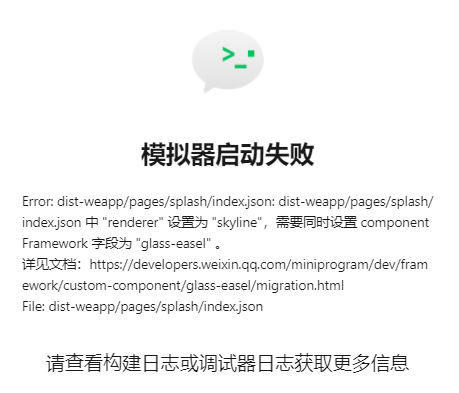
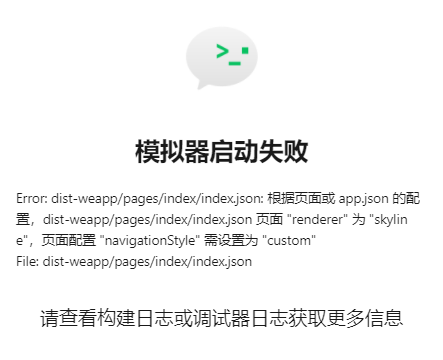
fix: 修复 Skyline 渲染器配置导致的编译错误
- 移除 app.config.ts 中的全局 renderer: 'skyline' 配置
- 只在 splash 页面单独配置 Skyline 渲染器
- 其他页面使用默认 WebView 渲染器，无需额外配置

解决全局 Skyline 导致所有页面都需要 navigationStyle: 'custom' 的问题

diff --git a/src/app.config.ts b/src/app.config.ts
@@ -32,15 +32,7 @@ export default defineAppConfig({
     navigationBarTextStyle: 'white',
     backgroundColor: '#F5F7FA'
   },
-  // 启用 Skyline 渲染模式
-  renderer: 'skyline',
-  rendererOptions: {
-    skyline: {
-      defaultDisplayBlock: true,
-      disableABTest: true
-    }
-  },
-  // 兼容 WebView 的页面
+  // 移除全局 Skyline 配置，改为在需要高性能渲染的页面单独配置
   lazyCodeLoading: 'requiredComponents',
   tabBar: {
     color: '#666666',
